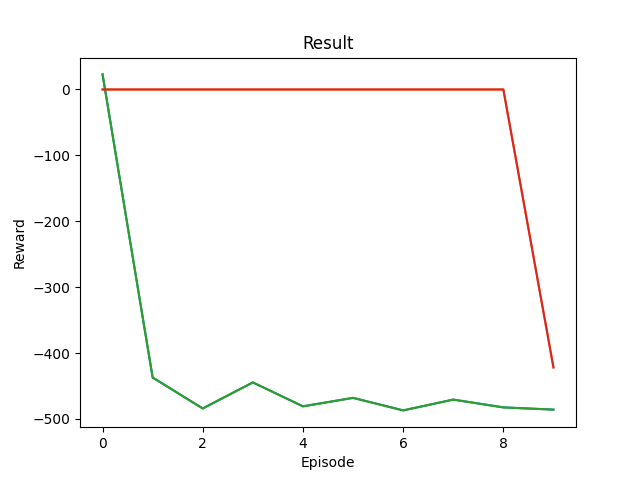
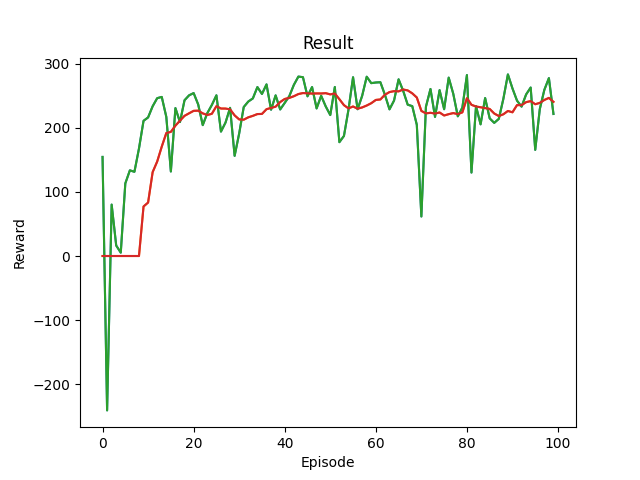
Change structure of observation space.

diff --git a/environment.py b/environment.py
@@ -65,17 +65,34 @@ class ShowerEnv(Env):
         # Actions we can take FORWARD, DISCARD, and SKIP
         self.action_space = Discrete(3)
         self.max_channel_quality = 2
-        self.max_aois = 1
+        self.max_current_time = 0
+        self.max_current_aoi = 1
+        self.max_buffer_location = 1
         
         self.observation_space = spaces.Dict({
             "channel_quality": spaces.Discrete(self.max_channel_quality),
+            "current_time": spaces.Box(low=0, high=1, shape=(1, 1)),
             "current_aois": spaces.Box(low=0, high=1, shape=(1, NUMNODES)),
-            "inbuffer_nodes": spaces.MultiBinary([NUMNODES, BUFFERSIZE]),
-            "inbuffer_timestamps": spaces.Box(low=0, high=1, shape=(1, BUFFERSIZE)),
+            "node_location": spaces.MultiDiscrete([BUFFERSIZE] * NUMNODES),
+            "node_aoi": spaces.Box(low=0, high=1, shape=(1, NUMNODES)),
         })
         
+        self.inbuffer_info_node = np.zeros([BUFFERSIZE], dtype=int)
+        self.inbuffer_info_timestamp = np.zeros([BUFFERSIZE], dtype=float)
         self.rng = default_rng()
         self.current_obs = None
+
+    def _get_node_info(self, buffer_node_info, buffer_node_timestamp):
+        node_location = BUFFERSIZE * np.ones([NUMNODES], dtype=int)
+        node_aoi = np.zeros([NUMNODES], dtype=float)
+        for node_i in range(1, NUMNODES + 1):
+            try:
+                location = np.where(buffer_node_info == node_i)[0][0]
+                node_location[node_i - 1] = location
+                node_aoi[node_i - 1] = buffer_node_timestamp[location] / BEACONINTERVAL
+            except:
+                pass
+        return node_location, node_aoi
 
     def _stepfunc(self, thres, x):
         if x > thres:
@@ -86,9 +103,10 @@ class ShowerEnv(Env):
     def _get_obs(self):
         return {
             "channel_quality": self.channel_quality,
-            "current_aois": self.current_aoi,
-            "inbuffer_nodes": self.inbuffer_nodes,
-            "inbuffer_timestamps": self.inbuffer_timestamps,
+            "current_time": self.current_time,
+            "current_aois": self.current_aois,
+            "node_location": self.node_location,
+            "node_aoi": self.node_aoi,
         }
 
     def _fill_first_zero(self, arr1, arr2):
@@ -99,9 +117,9 @@ class ShowerEnv(Env):
         remaining_zeros = np.count_nonzero(arr1 == 0) - zero_index  # Calculate the number of remaining zeros after the first zero
         
         if remaining_zeros >= len(arr2):
-            arr1[zero_index:zero_index + len(arr2)] = arr2[:remaining_zeros]
+            arr1[0][zero_index:zero_index + len(arr2)] = arr2[:remaining_zeros]
         else:
-            arr1[zero_index:zero_index + remaining_zeros] = arr2[:remaining_zeros]
+            arr1[0][zero_index:zero_index + remaining_zeros] = arr2[:remaining_zeros]
 
         return arr1
 
@@ -145,19 +163,24 @@ class ShowerEnv(Env):
         return channel_quality
     
     def _is_buffer_empty(self):
-        return self.inbuffer_nodes.sum(axis=0)[0] == 0
+        return self.leftbuffers == BUFFERSIZE
     
     def reset(self, seed=None):
         super().reset(seed=seed)
+        # State reset
         self.channel_quality = self.rng.integers(0, self.max_channel_quality)
-        self.current_aoi = np.zeros(NUMNODES, dtype=float)
-        self.inbuffer_nodes = np.zeros([NUMNODES, BUFFERSIZE], dtype=int)
-        self.inbuffer_timestamps = np.zeros(BUFFERSIZE, dtype=float)
+        self.current_time = 0
+        self.current_aois = np.zeros([NUMNODES], dtype=float)
+        self.node_location = BUFFERSIZE * np.ones([NUMNODES], dtype=int)
+        self.node_aoi = np.zeros([NUMNODES], dtype=float)
         
         self.leftslots = round(BEACONINTERVAL / TIMEEPOCH)
         self.leftbuffers = BUFFERSIZE
-        self.currenttime = 0
+        self.current_time = 0
         self.consumed_energy = 0
+        self.inbuffer_info_node = np.zeros([BUFFERSIZE], dtype=int)
+        self.inbuffer_info_timestamp = np.zeros([BUFFERSIZE], dtype=int)
+        self.insert_index = 0
             
         self.info = self._get_obs()
         self.current_obs = self._flatten_dict_values(self.info)
@@ -166,16 +189,16 @@ class ShowerEnv(Env):
 
 
     def probenqueue(self, dflog):
-        self.currenttime += TIMEEPOCH / BEACONINTERVAL
-        self.current_aoi += TIMEEPOCH / BEACONINTERVAL
+        self.current_time += TIMEEPOCH / BEACONINTERVAL
+        self.current_aois += TIMEEPOCH / BEACONINTERVAL
         
         # Define condition that the elements of the dflog can enqueue.
-        cond = (dflog.time >= self.currenttime*BEACONINTERVAL - TIMEEPOCH) & (dflog.time < self.currenttime*BEACONINTERVAL)
+        cond = ((dflog.time >= self.current_time*BEACONINTERVAL - TIMEEPOCH) 
+                & (dflog.time < self.current_time*BEACONINTERVAL))
         
         # Extract target dflog
-        self.leftbuffers = BUFFERSIZE - np.count_nonzero(self.inbuffer_timestamps)
         targetdflog = dflog[cond][:self.leftbuffers]
-        tnodenumber = len(targetdflog)
+        tnodenumber = min(len(targetdflog), self.leftbuffers)
         self.leftbuffers -= tnodenumber
 
         if tnodenumber == 0:
@@ -184,18 +207,11 @@ class ShowerEnv(Env):
             enquenode = targetdflog.node.values.astype(int)
             enquenodetimestamp = targetdflog.timestamp.values.astype(int)
 
-            repetitions = min((self.inbuffer_nodes.sum(axis=0)==0).sum(), tnodenumber)
-            if repetitions != 0:
-                insert_index = np.argwhere(self.inbuffer_nodes.sum(axis=0)==0)[0][0]
-            
-            for i in range(repetitions):
-                arr = np.zeros(NUMNODES, dtype=int)
-                arr[enquenode[i]] = 1
-                self.inbuffer_nodes[:, insert_index] = arr
-                self.inbuffer_timestamps[insert_index] = enquenodetimestamp[i] / BEACONINTERVAL
-                insert_index += 1
-            # self._fill_first_zero(self.inbuffer_nodes, enquenode)
-            # self._fill_first_zero(self.inbuffer_timestamps, enquenodetimestamp / BEACONINTERVAL)
+            self.inbuffer_info_node[self.insert_index:self.insert_index + tnodenumber] = enquenode
+            self.inbuffer_info_timestamp[self.insert_index:self.insert_index + tnodenumber] = enquenodetimestamp
+            self.insert_index += tnodenumber
+
+            self.node_location, self.node_aoi = self._get_node_info(self.inbuffer_info_node, self.inbuffer_info_timestamp)
             
         self.info = self._get_obs()
         self.current_obs = self._flatten_dict_values(self.info)
@@ -207,20 +223,21 @@ class ShowerEnv(Env):
             if self._is_buffer_empty():
                 pass
             else:
-                dequenode = np.nonzero(self.inbuffer_nodes[:, 0])[0]
-                dequenodeaoi = self.currenttime - self.inbuffer_timestamps[0]
+                dequenode = self.inbuffer_info_node[0]
+                dequenodeaoi_timestamp = self.inbuffer_info_timestamp[0]
                 
                 if self.channel_quality == 0:
-                    self.current_aoi[dequenode] = dequenodeaoi
+                    self.current_aois[dequenode - 1] = self.current_time - (dequenodeaoi_timestamp/BEACONINTERVAL)
                 
                 # Left-shift bufferinfo
-                self.inbuffer_nodes[:, :-1] = self.inbuffer_nodes[:, 1:]
-                self.inbuffer_nodes[-1] = 0
-                self.inbuffer_timestamps[:-1] = self.inbuffer_timestamps[1:]
-                self.inbuffer_timestamps[-1] = 0
+                self.inbuffer_info_node[:-1] = self.inbuffer_info_node[1:]
+                self.inbuffer_info_node[-1] = 0
+                self.inbuffer_info_timestamp[:-1] = self.inbuffer_info_timestamp[1:]
+                self.inbuffer_info_timestamp[-1] = 0
                 self.leftbuffers += 1
-                reward -= 0.308
-                self.consumed_energy += 280 * 1.1 * FRAMETIME    # milliamperes * voltage * time
+                self.insert_index -= 1
+            reward -= 0.308
+            self.consumed_energy += 280 * 1.1 * FRAMETIME    # milliamperes * voltage * time
 
         # 1: DISCARD
         elif action == 1:
@@ -228,33 +245,36 @@ class ShowerEnv(Env):
                 pass
             else:
                 # Left-shift bufferinfo
-                self.inbuffer_nodes[:, :-1] = self.inbuffer_nodes[:, 1:]
-                self.inbuffer_nodes[-1] = 0
-                self.inbuffer_timestamps[:-1] = self.inbuffer_timestamps[1:]
-                self.inbuffer_timestamps[-1] = 0
+                self.inbuffer_info_node[:-1] = self.inbuffer_info_node[1:]
+                self.inbuffer_info_node[-1] = 0
+                self.inbuffer_info_timestamp[:-1] = self.inbuffer_info_timestamp[1:]
+                self.inbuffer_info_timestamp[-1] = 0
                 self.leftbuffers += 1
-                reward -= 0.154
-                self.consumed_energy += 50 * 1.1 * FRAMETIME    # milliamperes * voltage * time
+                self.insert_index -= 1
+            reward -= 0.154
+            self.consumed_energy += 50 * 1.1 * FRAMETIME    # milliamperes * voltage * time
 
         # 2: SKIP
         elif action == 2:
             pass
-
+        
+        self.node_location, self.node_aoi = self._get_node_info(self.inbuffer_info_node, self.inbuffer_info_timestamp)
         self.channel_quality = self._change_channel_quality()
         self.info = self._get_obs()
         self.current_obs = self._flatten_dict_values(self.info)
 
         self.leftslots -= 1
         done = self.leftslots <= 0
+
         
-        # if self.current_aoi.max() >= (PEAKAOITHRES / BEACONINTERVAL):
-        reward -= np.clip(self.current_aoi - (PEAKAOITHRES / BEACONINTERVAL), 0, None).sum()
+        # if self.current_aois.max() >= (PEAKAOITHRES / BEACONINTERVAL):
+        reward -= np.clip(self.current_aois - (PEAKAOITHRES / BEACONINTERVAL), 0, None).sum()
         # count the number of nodes whose aoi is less than PEAKAOITHRES / BEACONINTERVAL
-        reward += np.count_nonzero(self.current_aoi < (PEAKAOITHRES / BEACONINTERVAL)) * (1/NUMNODES)
+        reward += np.count_nonzero(self.current_aois < (PEAKAOITHRES / BEACONINTERVAL)) * (1/NUMNODES)
         
         # if done:
         #     print("Success!")
-        #     if self.current_aoi.max() < (PEAKAOITHRES / BEACONINTERVAL):
+        #     if self.current_aois.max() < (PEAKAOITHRES / BEACONINTERVAL):
         #         print("Congrats!")
         #         reward += 100
             

diff --git a/randomaccess.py b/randomaccess.py
@@ -35,7 +35,7 @@ def randomaccess(numnodes, beaconinterval, frametxslot, per, raalgo):
                 ind, = np.where(bo_counter == 0)
                 retx[ind] = 0
                 # print(f"Time: {currentslot}, Tx success from {ind+1} with AoI {aoi[ind]}")
-                df2 = pd.DataFrame({'time': currentslot*slottime, 'node': ind, 'timestamp': aoitimestamp[ind]*slottime, 'result': 'succ'})
+                df2 = pd.DataFrame({'time': currentslot*slottime, 'node': ind + 1, 'timestamp': aoitimestamp[ind]*slottime, 'result': 'succ'})
                 df = pd.concat([df, df2], ignore_index=True, axis=0)
                 aoitimestamp[retx == 0] = currentslot
                 succ_timestamp = np.append(succ_timestamp, currentslot)
@@ -54,7 +54,7 @@ def randomaccess(numnodes, beaconinterval, frametxslot, per, raalgo):
                         bo_stage[x] += 1
                     bo_counter[x] = np.random.randint(contentionwindowsize[bo_stage[x]])
                 # print(f"Time: {currentslot}, Tx collision from {ind+1} with AoI {aoi[ind]}")
-                df2 = pd.DataFrame({'time': currentslot*slottime, 'node': ind, 'timestamp': aoitimestamp[ind]*slottime, 'result': 'fail'})
+                df2 = pd.DataFrame({'time': currentslot*slottime, 'node': ind + 1, 'timestamp': aoitimestamp[ind]*slottime, 'result': 'fail'})
                 df = pd.concat([df, df2], ignore_index=True, axis=0)
                 aoitimestamp[retx == 0] = currentslot
                 num_fail += 1
@@ -69,7 +69,7 @@ def randomaccess(numnodes, beaconinterval, frametxslot, per, raalgo):
                         bo_stage[x] += 1
                     bo_counter[x] = np.random.randint(contentionwindowsize[bo_stage[x]])
                 # print(f"Time: {currentslot}, Tx collision from {ind+1} with AoI {aoi[ind]}")
-                df2 = pd.DataFrame({'time': currentslot*slottime, 'node': ind, 'timestamp': aoitimestamp[ind]*slottime, 'result': 'coll'})
+                df2 = pd.DataFrame({'time': currentslot*slottime, 'node': ind + 1, 'timestamp': aoitimestamp[ind]*slottime, 'result': 'coll'})
                 df = pd.concat([df, df2], ignore_index=True, axis=0)
                 aoitimestamp[retx == 0] = currentslot
                 num_coll += 1
@@ -100,7 +100,7 @@ def randomaccess(numnodes, beaconinterval, frametxslot, per, raalgo):
             elif (random.random() > per) and (txprobarray.sum() == 1):
                 ind, = np.where(txprobarray == 1)
                 # print(f"Time: {currentslot}, Tx success from {ind+1} with AoI {aoi[ind]}")
-                df2 = pd.DataFrame({'time': currentslot*slottime, 'node': ind, 'timestamp': aoitimestamp[ind]*slottime, 'result': 'succ'})
+                df2 = pd.DataFrame({'time': currentslot*slottime, 'node': ind + 1, 'timestamp': aoitimestamp[ind]*slottime, 'result': 'succ'})
                 df = pd.concat([df, df2], ignore_index=True, axis=0)
                 retx[ind] = 0
                 aoitimestamp[retx == 0] = currentslot
@@ -111,7 +111,7 @@ def randomaccess(numnodes, beaconinterval, frametxslot, per, raalgo):
             else:
                 ind, = np.where(txprobarray == 1)
                 # print(f"Time: {currentslot}, Tx collision from {ind+1} with AoI {aoi[ind]}")
-                # df2 = pd.DataFrame({'time': currentslot*slottime, 'node': ind, 'timestamp': aoitimestamp[ind]*slottime, 'result': 'coll'})
+                # df2 = pd.DataFrame({'time': currentslot*slottime, 'node': ind + 1, 'timestamp': aoitimestamp[ind]*slottime, 'result': 'coll'})
                 # df = pd.concat([df, df2], ignore_index=True, axis=0)
                 retx[ind] = 1
                 num_coll += 1

diff --git a/main_train.py b/main_train.py
@@ -8,6 +8,7 @@ from torch import nn, optim
 import random
 import matplotlib
 import matplotlib.pyplot as plt
+from gymnasium.wrappers import FlattenObservation
 
 from collections import namedtuple, deque
 from itertools import count, chain
@@ -146,14 +147,16 @@ for i_episode in range(num_episodes):
     state, info = env.reset()
     state = torch.tensor(state, dtype=torch.float32, device=device).unsqueeze(0)
     rewards = 0
-    print(f"Episode: {i_episode}/{num_episodes}")
         
     for epoch in range(BEACONINTERVAL//TIMEEPOCH):
         # Select and perform an action
         action = select_action(state)
+        print(info)
         env.probenqueue(dflog)
+        print(info)
         observation, reward, terminated, truncated, info = env.step(action.item())
         reward = torch.tensor([reward], device=device)
+        print(action.item(), info)
         
         done = terminated or truncated
         if done:
@@ -178,7 +181,7 @@ for i_episode in range(num_episodes):
             target_net_state_dict[key] = policy_net_state_dict[key]*0.005 + target_net_state_dict[key]*(1-0.005)
         target_net.load_state_dict(target_net_state_dict)
         
-        print(f"Episode: {i_episode}/{num_episodes}, Epoch: {epoch}/{BEACONINTERVAL//TIMEEPOCH}, Action: {action.item()}, Reward: {reward.item()}")
+        # print(f"Episode: {i_episode}/{num_episodes}, Epoch: {epoch}/{BEACONINTERVAL//TIMEEPOCH}, Action: {action.item()}, Reward: {reward.item()}")
         
         rewards += reward.item()
         
